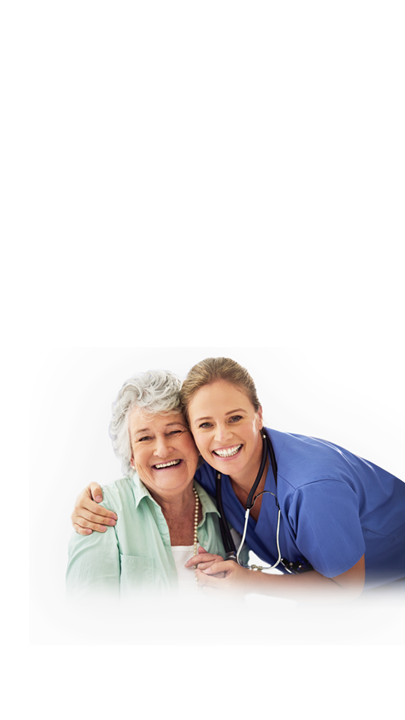
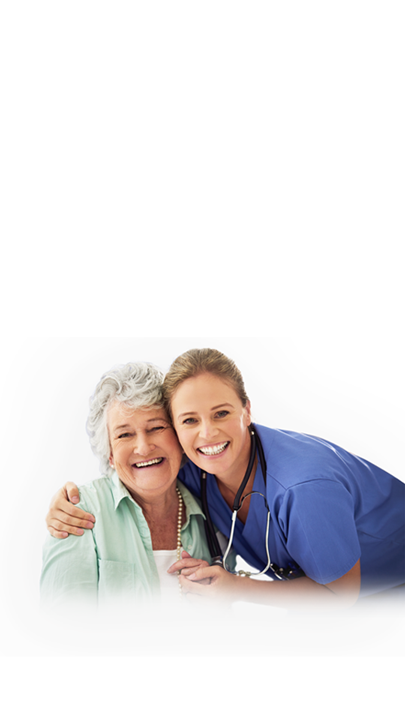
heade background

Changed region(s): [[0.0889, 0.4583, 1.0, 0.8556]]

diff --git a/src/styles.css b/src/styles.css
@@ -128,7 +128,7 @@
     .header-container {
       background-image: url(./public/assets/images/bg_header_mobile.png);  
       width: 100%;  
-      padding: 4rem;    
+      padding: 2rem;    
     }
     .header-container > .header-section {
       padding: 0;
